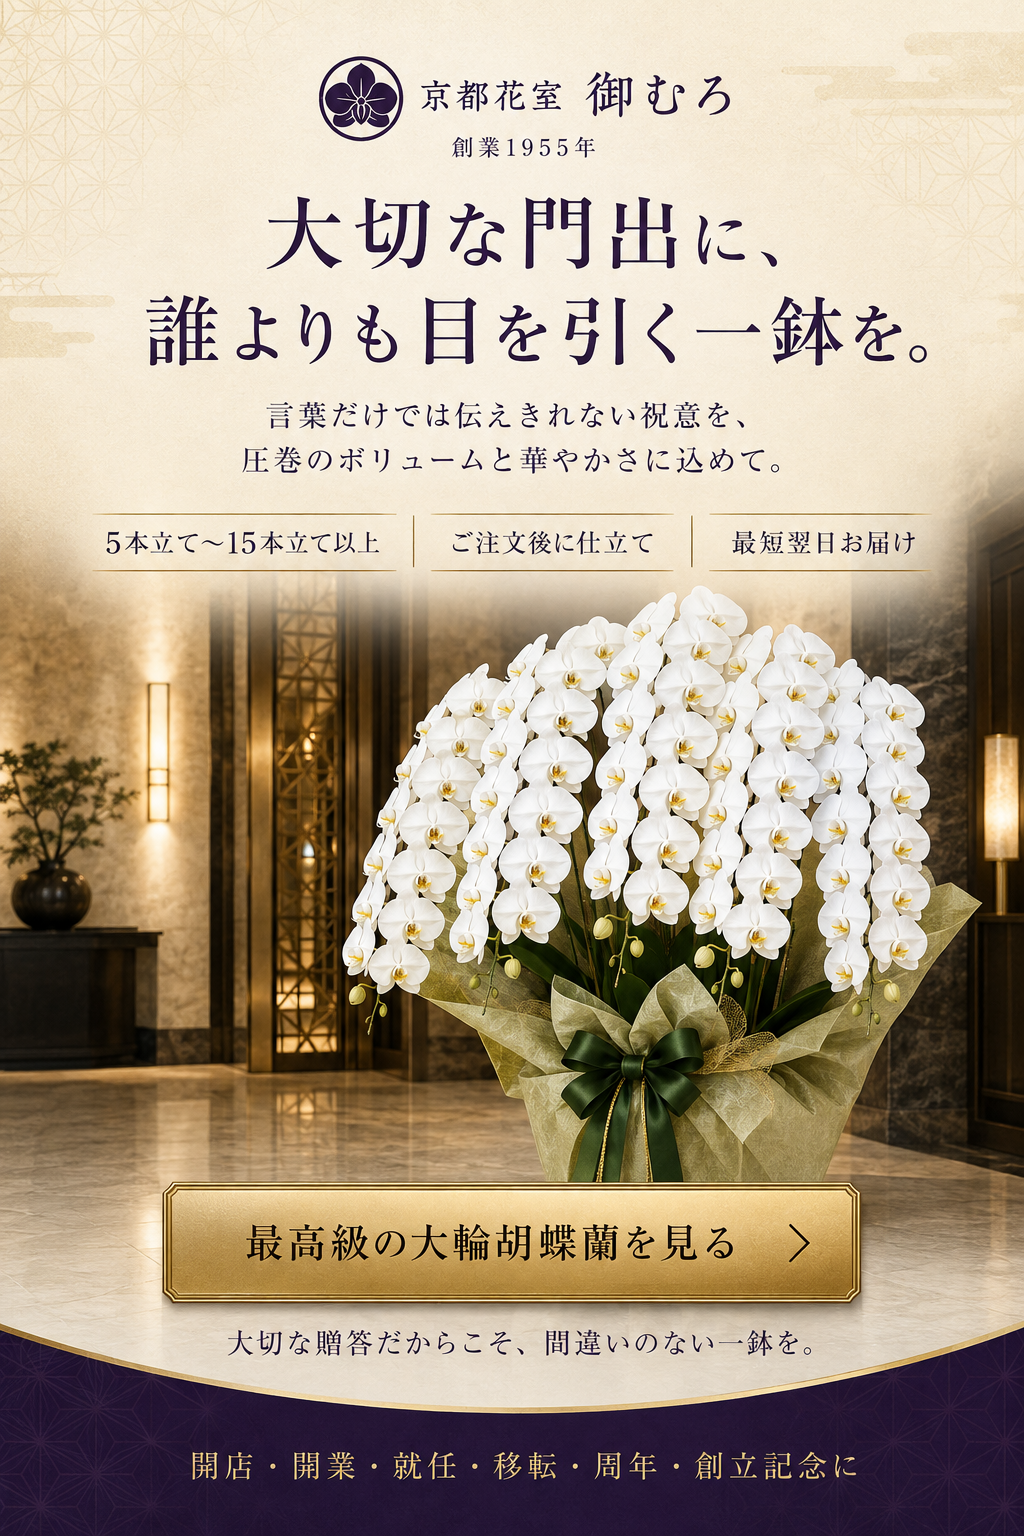
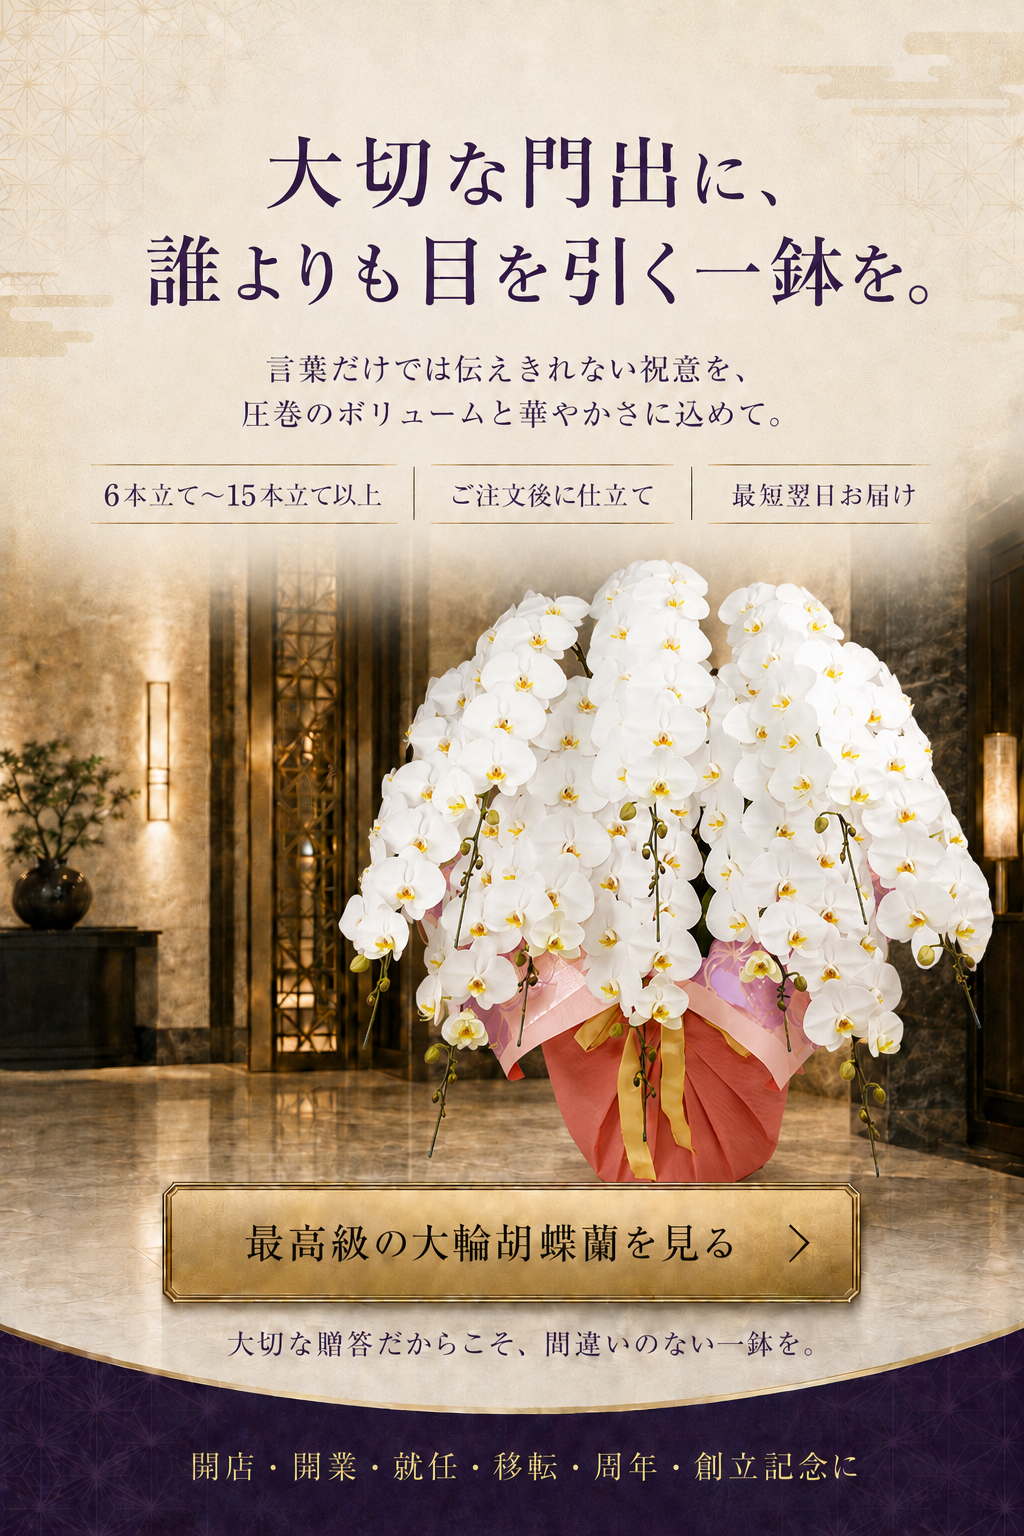
Publish revised sections 8 and 12

diff --git a/index.html b/index.html
@@ -37,7 +37,7 @@
         <img src="img/7.png" alt="大輪胡蝶蘭のご案内 7" width="860" height="1829" loading="lazy" />
       </section>
       <section class="visual" id="section-8">
-        <img src="img/8.png" alt="大輪胡蝶蘭のご案内 8" width="864" height="1821" loading="lazy" />
+        <img src="img/8.png" alt="大輪胡蝶蘭のご案内 8" width="866" height="1815" loading="lazy" />
       </section>
       <section class="visual" id="section-9">
         <img src="img/9.png" alt="大輪胡蝶蘭のご案内 9" width="864" height="1821" loading="lazy" />
@@ -58,7 +58,7 @@
         </a>
       </section>
       <section class="visual" id="section-12">
-        <img src="img/12-latest.png" alt="大輪胡蝶蘭のご案内 12" width="1024" height="1536" loading="lazy" />
+        <img src="img/12.png" alt="大輪胡蝶蘭のご案内 12" width="1024" height="1536" loading="lazy" />
         <a class="final-cta" href="https://kyoto-omuro.jp/view/category/kochoran_oatsurae" target="_blank" rel="noopener noreferrer">
           <span class="sr-only">最高級の大輪胡蝶蘭の商品一覧を見る</span>
         </a>
